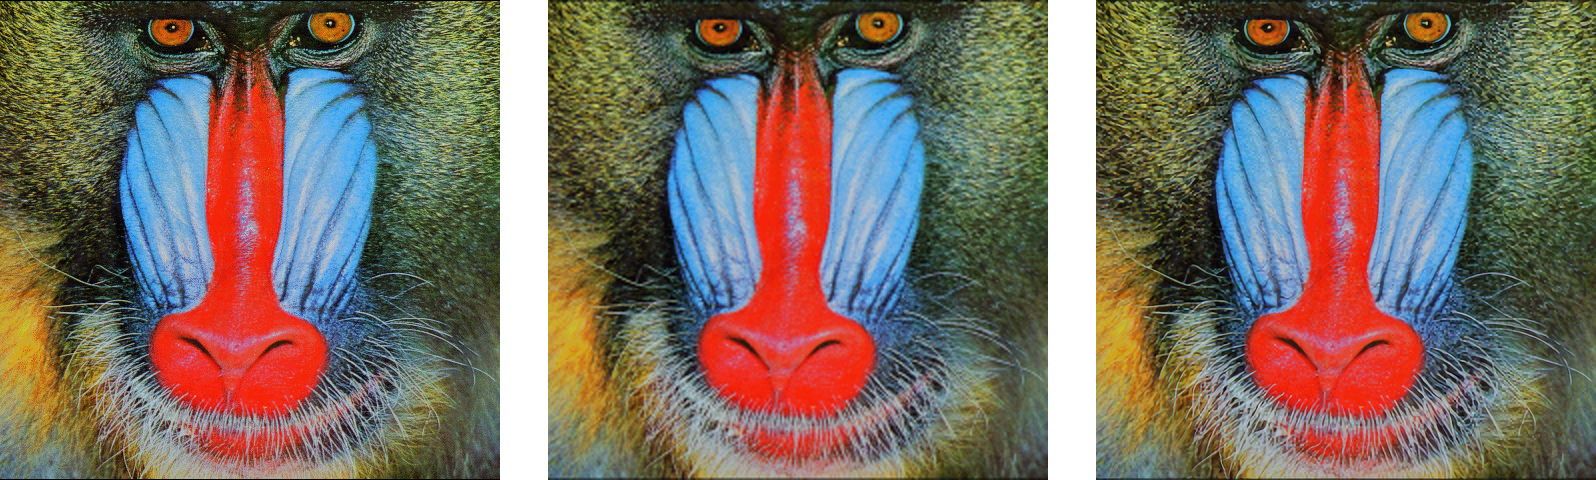
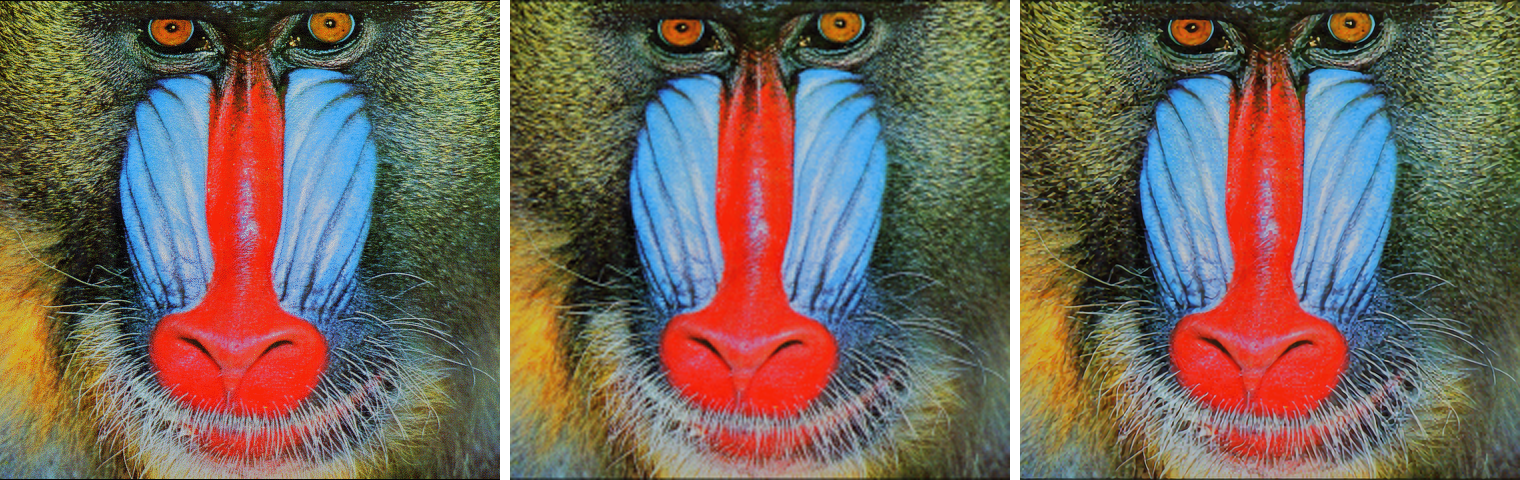
update

diff --git a/output.py b/output.py
@@ -43,7 +43,7 @@ def evaluate(model, scale=2, concat=True, summary=True):
 
         # White Strip
         white = np.full(
-            shape=(output.shape[0], output.shape[0] // 10, 3), fill_value=255
+            shape=(output.shape[0], output.shape[1] // 50, 3), fill_value=255
         )
 
         # Write Output
